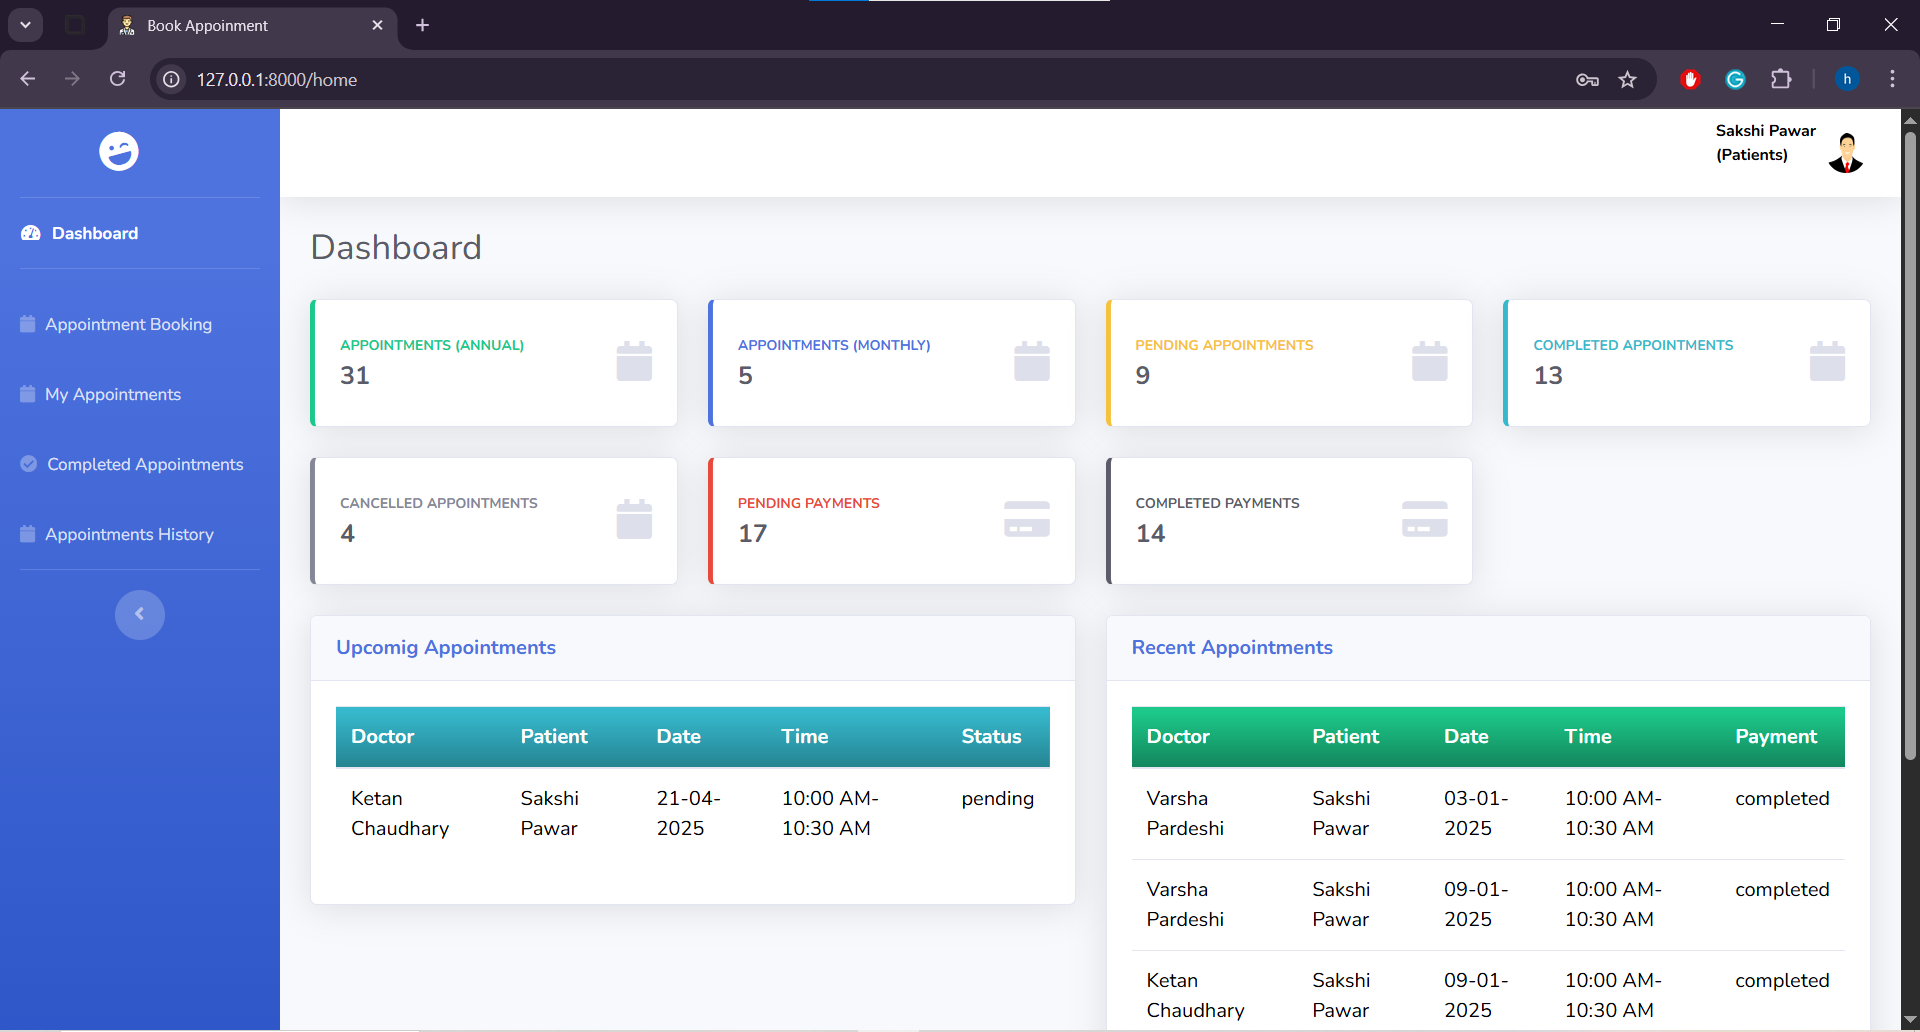
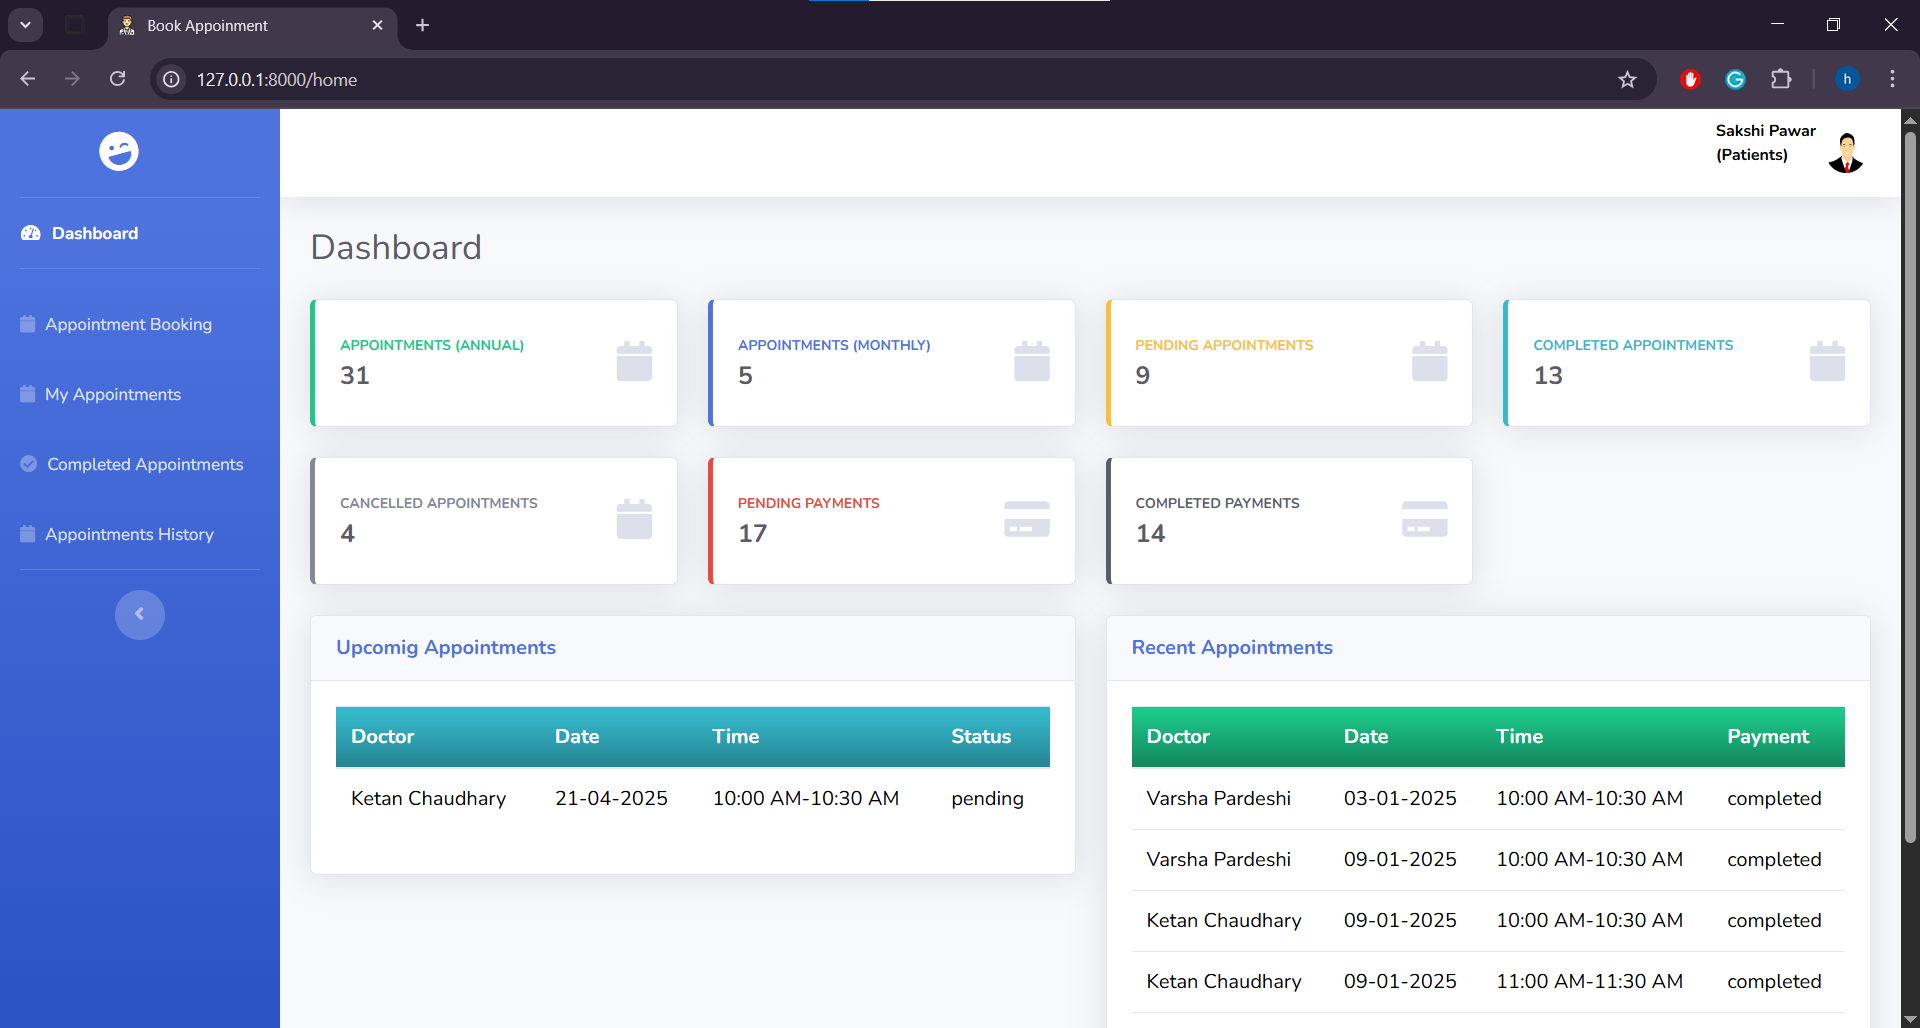
update image width and change the condition for patient login

diff --git a/resources/views/components/show-appointments.blade.php b/resources/views/components/show-appointments.blade.php
@@ -13,7 +13,9 @@
                                 @if(Auth::user()->isDoctor() != 'Doctor')
                                     <th scope="col">Doctor</th>
                                 @endif
-                                <th scope="col">Patient</th>
+                                @if(Auth::user()->isPatients() != 'Patients')
+                                    <th scope="col">Patient</th>
+                                @endif
                                 <th scope="col">Date</th>
                                 <th scope="col">Time</th>
                                 <th scope="col">Status</th>
@@ -30,7 +32,9 @@
                                         @if(Auth::user()->isDoctor() != 'Doctor')
                                             <td>{{ $appointment->doctor_full_name }}</td>
                                         @endif
-                                        <td>{{ $appointment->patient_full_name }}</td>
+                                        @if(Auth::user()->isPatients() != 'Patients')
+                                            <td>{{ $appointment->patient_full_name }}</td>
+                                        @endif
                                         <td>{{ $appointment->appointmentDate }}</td>
                                         <td>{{ $appointment->time }}</td>
                                         <td>{{ $appointment->status }}</td>
@@ -59,7 +63,9 @@
                                 @if(Auth::user()->isDoctor() != 'Doctor')
                                     <th scope="col">Doctor</th>
                                 @endif
-                                <th scope="col">Patient</th>
+                                @if(Auth::user()->isPatients() != 'Patients')
+                                    <th scope="col">Patient</th>
+                                @endif
                                 <th scope="col">Date</th>
                                 <th scope="col">Time</th>
                                 <th scope="col">Payment</th>
@@ -76,7 +82,9 @@
                                         @if(Auth::user()->isDoctor() != 'Doctor')
                                             <td>{{ $appointment->doctor_full_name }}</td>
                                         @endif
-                                        <td>{{ $appointment->patient_full_name }}</td>
+                                        @if(Auth::user()->isPatients() != 'Patients')
+                                            <td>{{ $appointment->patient_full_name }}</td>
+                                        @endif
                                         <td>{{ $appointment->appointmentDate }}</td>
                                         <td>{{ $appointment->time }}</td>
                                         <td>{{ $appointment->payment_status }}</td>

diff --git a/screenshots.md b/screenshots.md
@@ -28,44 +28,44 @@
 ---
 
 ## 📅 Appointment Booking
-<img src="Screenshots/Patients/appointmentBooking.png" alt="Appointment Booking" width="300">
-<img src="Screenshots/Patients/appointmentBook.png" alt="Appointment Booking" width="300">
-<img src="Screenshots/Patients/viewTimeslot.png" alt="View Available Time Slot" width="300">
-<img src="Screenshots/Patients/myAppointment.png" alt="Appointment List" width="300">
+<img src="Screenshots/Patients/appointmentBooking.png" alt="Appointment Booking" width="600">
+<img src="Screenshots/Patients/appointmentBook.png" alt="Appointment Booking" width="600">
+<img src="Screenshots/Patients/viewTimeslot.png" alt="View Available Time Slot" width="600">
+<img src="Screenshots/Patients/myAppointment.png" alt="Appointment List" width="600">
 
 ---
 
 ## 📅 Appointment Management
-<img src="Screenshots/Doctor/appointment.png" alt="Appointment List" width="300">
-<img src="Screenshots/Doctor/appointmentConfirmedList.png" alt="Appointment Confirmed" width="300">
-<img src="Screenshots/Doctor/AppointmentReschedule.png" alt="Appointment Reschedule" width="300">
+<img src="Screenshots/Doctor/appointment.png" alt="Appointment List" width="600">
+<img src="Screenshots/Doctor/appointmentConfirmedList.png" alt="Appointment Confirmed" width="600">
+<img src="Screenshots/Doctor/AppointmentReschedule.png" alt="Appointment Reschedule" width="600">
 
 ---
 
 ## ⏰ Manage Doctor Availability
-<img src="Screenshots/Doctor/timeslot-3.png" alt="Time Slot List" width="300">
-<img src="Screenshots/Doctor/availability-2.png" alt="Add Time Slot" width="300">
-<img src="Screenshots/Doctor/timeslotForWholeMonth.png" alt="Time Slot List for Month" width="300">
-<img src="Screenshots/Doctor/availabilityWeekly.png" alt="Time Slot List for Week" width="300">
-<img src="Screenshots/Doctor/weekView.png" alt="Time Slot List" width="300">
-<img src="Screenshots/Doctor/timeSlotModifications.png" alt="Time Slot List action" width="300">
+<img src="Screenshots/Doctor/timeslot-3.png" alt="Time Slot List" width="600">
+<img src="Screenshots/Doctor/availability-2.png" alt="Add Time Slot" width="600">
+<img src="Screenshots/Doctor/timeslotForWholeMonth.png" alt="Time Slot List for Month" width="600">
+<img src="Screenshots/Doctor/availabilityWeekly.png" alt="Time Slot List for Week" width="600">
+<img src="Screenshots/Doctor/weekView.png" alt="Time Slot List" width="600">
+<img src="Screenshots/Doctor/timeSlotModifications.png" alt="Time Slot List action" width="600">
 
 ---
 
 ## 💳 Payment Page
-<img src="Screenshots/Patients/paymentPending.png" alt="Payment Page" width="300">
-<img src="Screenshots/Patients/makePayment-1.png" alt="Payment Details" width="300">
-<img src="Screenshots/Patients/makePayment-2.png" alt="Razorpay" width="300">
-<img src="Screenshots/Patients/makePayment-3.png" alt="Razorpay" width="300">
-<img src="Screenshots/Patients/makePayment-4.png" alt="Razorpay" width="300">
-<img src="Screenshots/Patients/paymentSummary.png" alt="Razorpay" width="300">
-<img src="Screenshots/Patients/viewSummary.png" alt="Razorpay" width="300">
-<img src="Screenshots/Patients/invoice.png" alt="Invoice" width="300">
+<img src="Screenshots/Patients/paymentPending.png" alt="Payment Page" width="600">
+<img src="Screenshots/Patients/makePayment-1.png" alt="Payment Details" width="600">
+<img src="Screenshots/Patients/makePayment-2.png" alt="Razorpay" width="600">
+<img src="Screenshots/Patients/makePayment-3.png" alt="Razorpay" width="600">
+<img src="Screenshots/Patients/makePayment-4.png" alt="Razorpay" width="600">
+<img src="Screenshots/Patients/paymentSummary.png" alt="Razorpay" width="600">
+<img src="Screenshots/Patients/viewSummary.png" alt="Razorpay" width="600">
+<img src="Screenshots/Patients/invoice.png" alt="Invoice" width="600">
 
 ## 📜 Prescriptions
-<img src="Screenshots/Doctor/prescription.png" alt="Prescriptions Button" width="300">
-<img src="Screenshots/Doctor/prescription-01.png" alt="Prescriptions Modal" width="300">
-<img src="Screenshots/Doctor/prescription-02.png" alt="Prescriptions Modal" width="300">
-<img src="Screenshots/Doctor/prescription-03.png" alt="Prescriptions Button" width="300">
-<img src="Screenshots/Doctor/prescription-04.png" alt="Prescriptions Edit" width="300">
-<img src="Screenshots/Doctor/prescription-05.png" alt="Prescriptions Summary" width="300">
+<img src="Screenshots/Doctor/prescription.png" alt="Prescriptions Button" width="600">
+<img src="Screenshots/Doctor/prescription-01.png" alt="Prescriptions Modal" width="600">
+<img src="Screenshots/Doctor/prescription-02.png" alt="Prescriptions Modal" width="600">
+<img src="Screenshots/Doctor/prescription-03.png" alt="Prescriptions Button" width="600">
+<img src="Screenshots/Doctor/prescription-04.png" alt="Prescriptions Edit" width="600">
+<img src="Screenshots/Doctor/prescription-05.png" alt="Prescriptions Summary" width="600">
